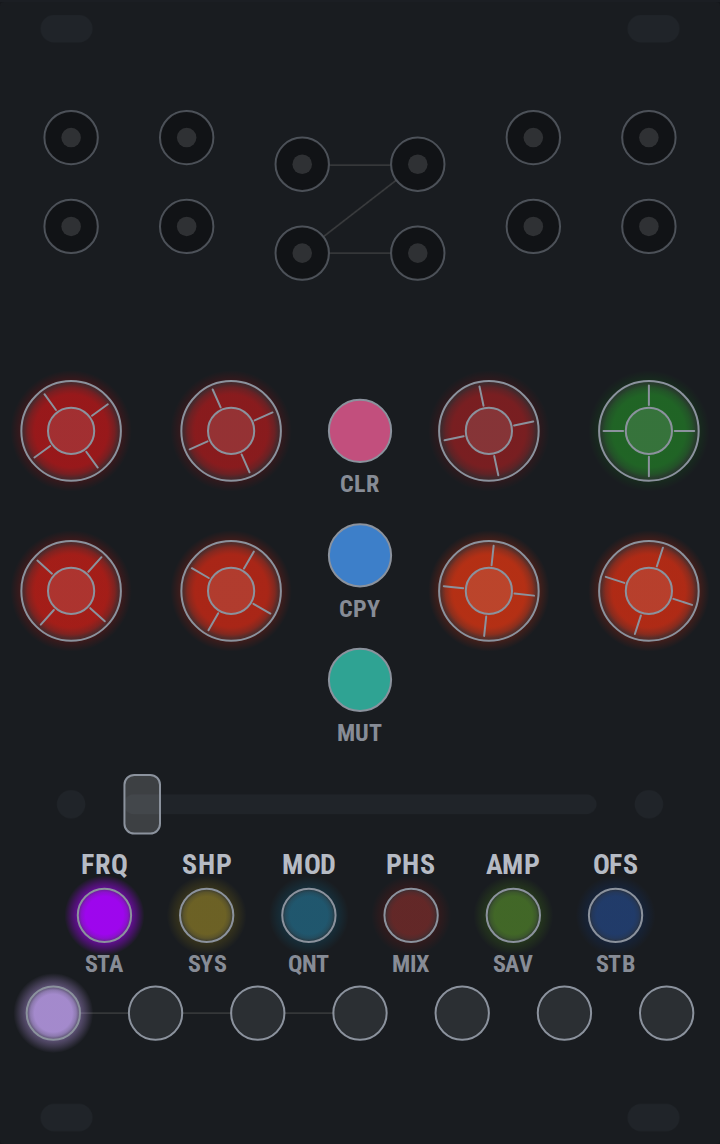
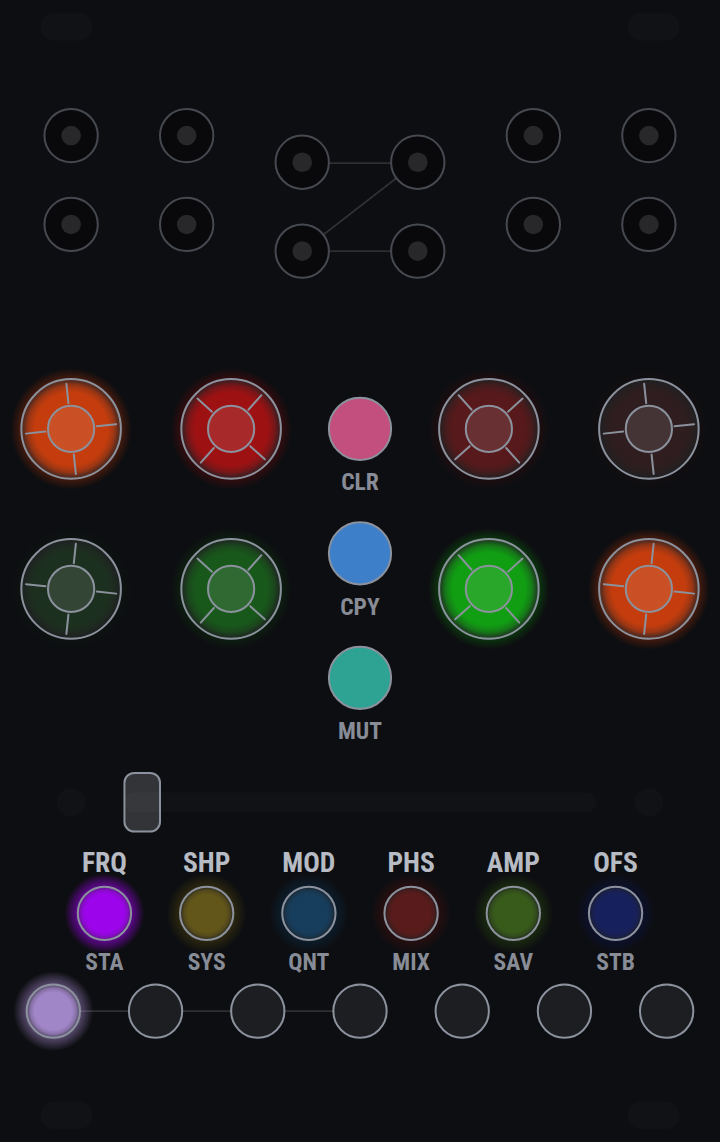
build(tools): take the screenshots from the simulator instead of by hand
The four pictures in docs/images/ and web/manual/ were hand-captured -
open the simulator, hide body::before, screenshot the element - which is
why the manual carried a note asking the next person to do it that way
again. When the LED palette moved, all four quietly became pictures of
colours the module no longer has, and nothing could have told anyone.

So they are generated now, like everything else under tools/. shoot.mjs
drives the panel through the browser's own input events, at coordinates
taken from panel.json, so what each picture is a picture of is written
down: a spread of offsets across the row for the LED language, a clock
and eight amplitudes for the two that show a running module.

No dependencies - the DevTools protocol is a WebSocket and node has had
one built in since 22, so this is bare node like the rest of web/ and
scripts/.

Two things a still of a live oscillator needs, and did not have: the
pointer is parked off the panel before the shutter, or the page is still
explaining whatever was clicked last, and the running shots wait for the
channels to swing positive, or a whole panel of negative levels is as
likely as a whole panel of positive ones.

led-language.png now runs the full ramp end to end - the warm shift
either side of 10V, red and green at 5V, and the dark crossing between -
which is the thing that page is about.

Claude-Session: https://claude.ai/code/session_01YUY3j1qmSo7f4WiBqHNmy1

diff --git a/web/manual/index.html b/web/manual/index.html
@@ -23,11 +23,10 @@
   <p class="tagline">What every control does, and why it is where it is.</p>
 </header>
 
-<!-- panel.png, lights.png and scopes.png are captured from the simulator page
-     with the photographic backdrop hidden - it shows through the panel artwork,
-     which makes a flat screenshot into a heavy photographic one. Recapture by
-     opening the simulator, hiding body::before, and screenshotting #panel-wrap
-     and #scope. -->
+<!-- panel.png and scopes.png are generated: `just docs-shots`, which drives the
+     simulator to the state each one shows and hides the photographic backdrop
+     first - it reads through the panel artwork and the scope cells, and turns a
+     flat screenshot into a heavy photographic one. See tools/shoot.mjs. -->
 <main>
 
 <div class="step">

diff --git a/tools/CLAUDE.md b/tools/CLAUDE.md
@@ -17,7 +17,7 @@ properties these guarantee are asserted, not assumed.
 | `just layout-check` | `dump_layout.py` + `gen_layout_asserts.py` | `sim/include/layout_target.h` |
 | `just vcv-compdb` | `gen_compdb.py` | `vcv/compile_commands.json` |
 | `just shape-figures` | `dump_shapes.c` + `gen_shape_figures.py` | `docs/images/shape-*.svg` |
-| `just docs-shots` | headless Chrome | `docs/images/web-overview.png` |
+| `just docs-shots` | `shoot.mjs` + headless Chrome | `docs/images/{web-overview,led-language}.png`, `web/manual/{panel,scopes}.png` |
 
 Notes that matter:
 
@@ -36,6 +36,15 @@ Notes that matter:
   `dump_shapes.c`, for the same reason: a picture of a shape the firmware does
   not have is worse than no picture. One SVG per mode, SHP down the rows and MOD
   across the columns.
+- **`shoot.mjs` drives the panel to the state each picture shows**, through the
+  browser's own input events and `panel.json`'s coordinates — so a screenshot is
+  generated output like everything else here, and what it is a picture of is
+  readable rather than being whatever someone had on screen. They were
+  hand-taken until the LED palette moved and every one of them quietly became a
+  picture of colours the module no longer has. No dependencies: the DevTools
+  protocol is a WebSocket and node has had one built in since 22. The two shots
+  of a *running* module wait for the channels to swing positive before the
+  shutter, so a still of a live oscillator is not a matter of luck.
 - **`gen_panel_spec.py` merges KiCad output with the firmware's own `HwSetup`
   tables**, so positions and roles derive from board and firmware together.
   `tests/test_panel_spec.c` asserts they agree. What genuinely cannot be
